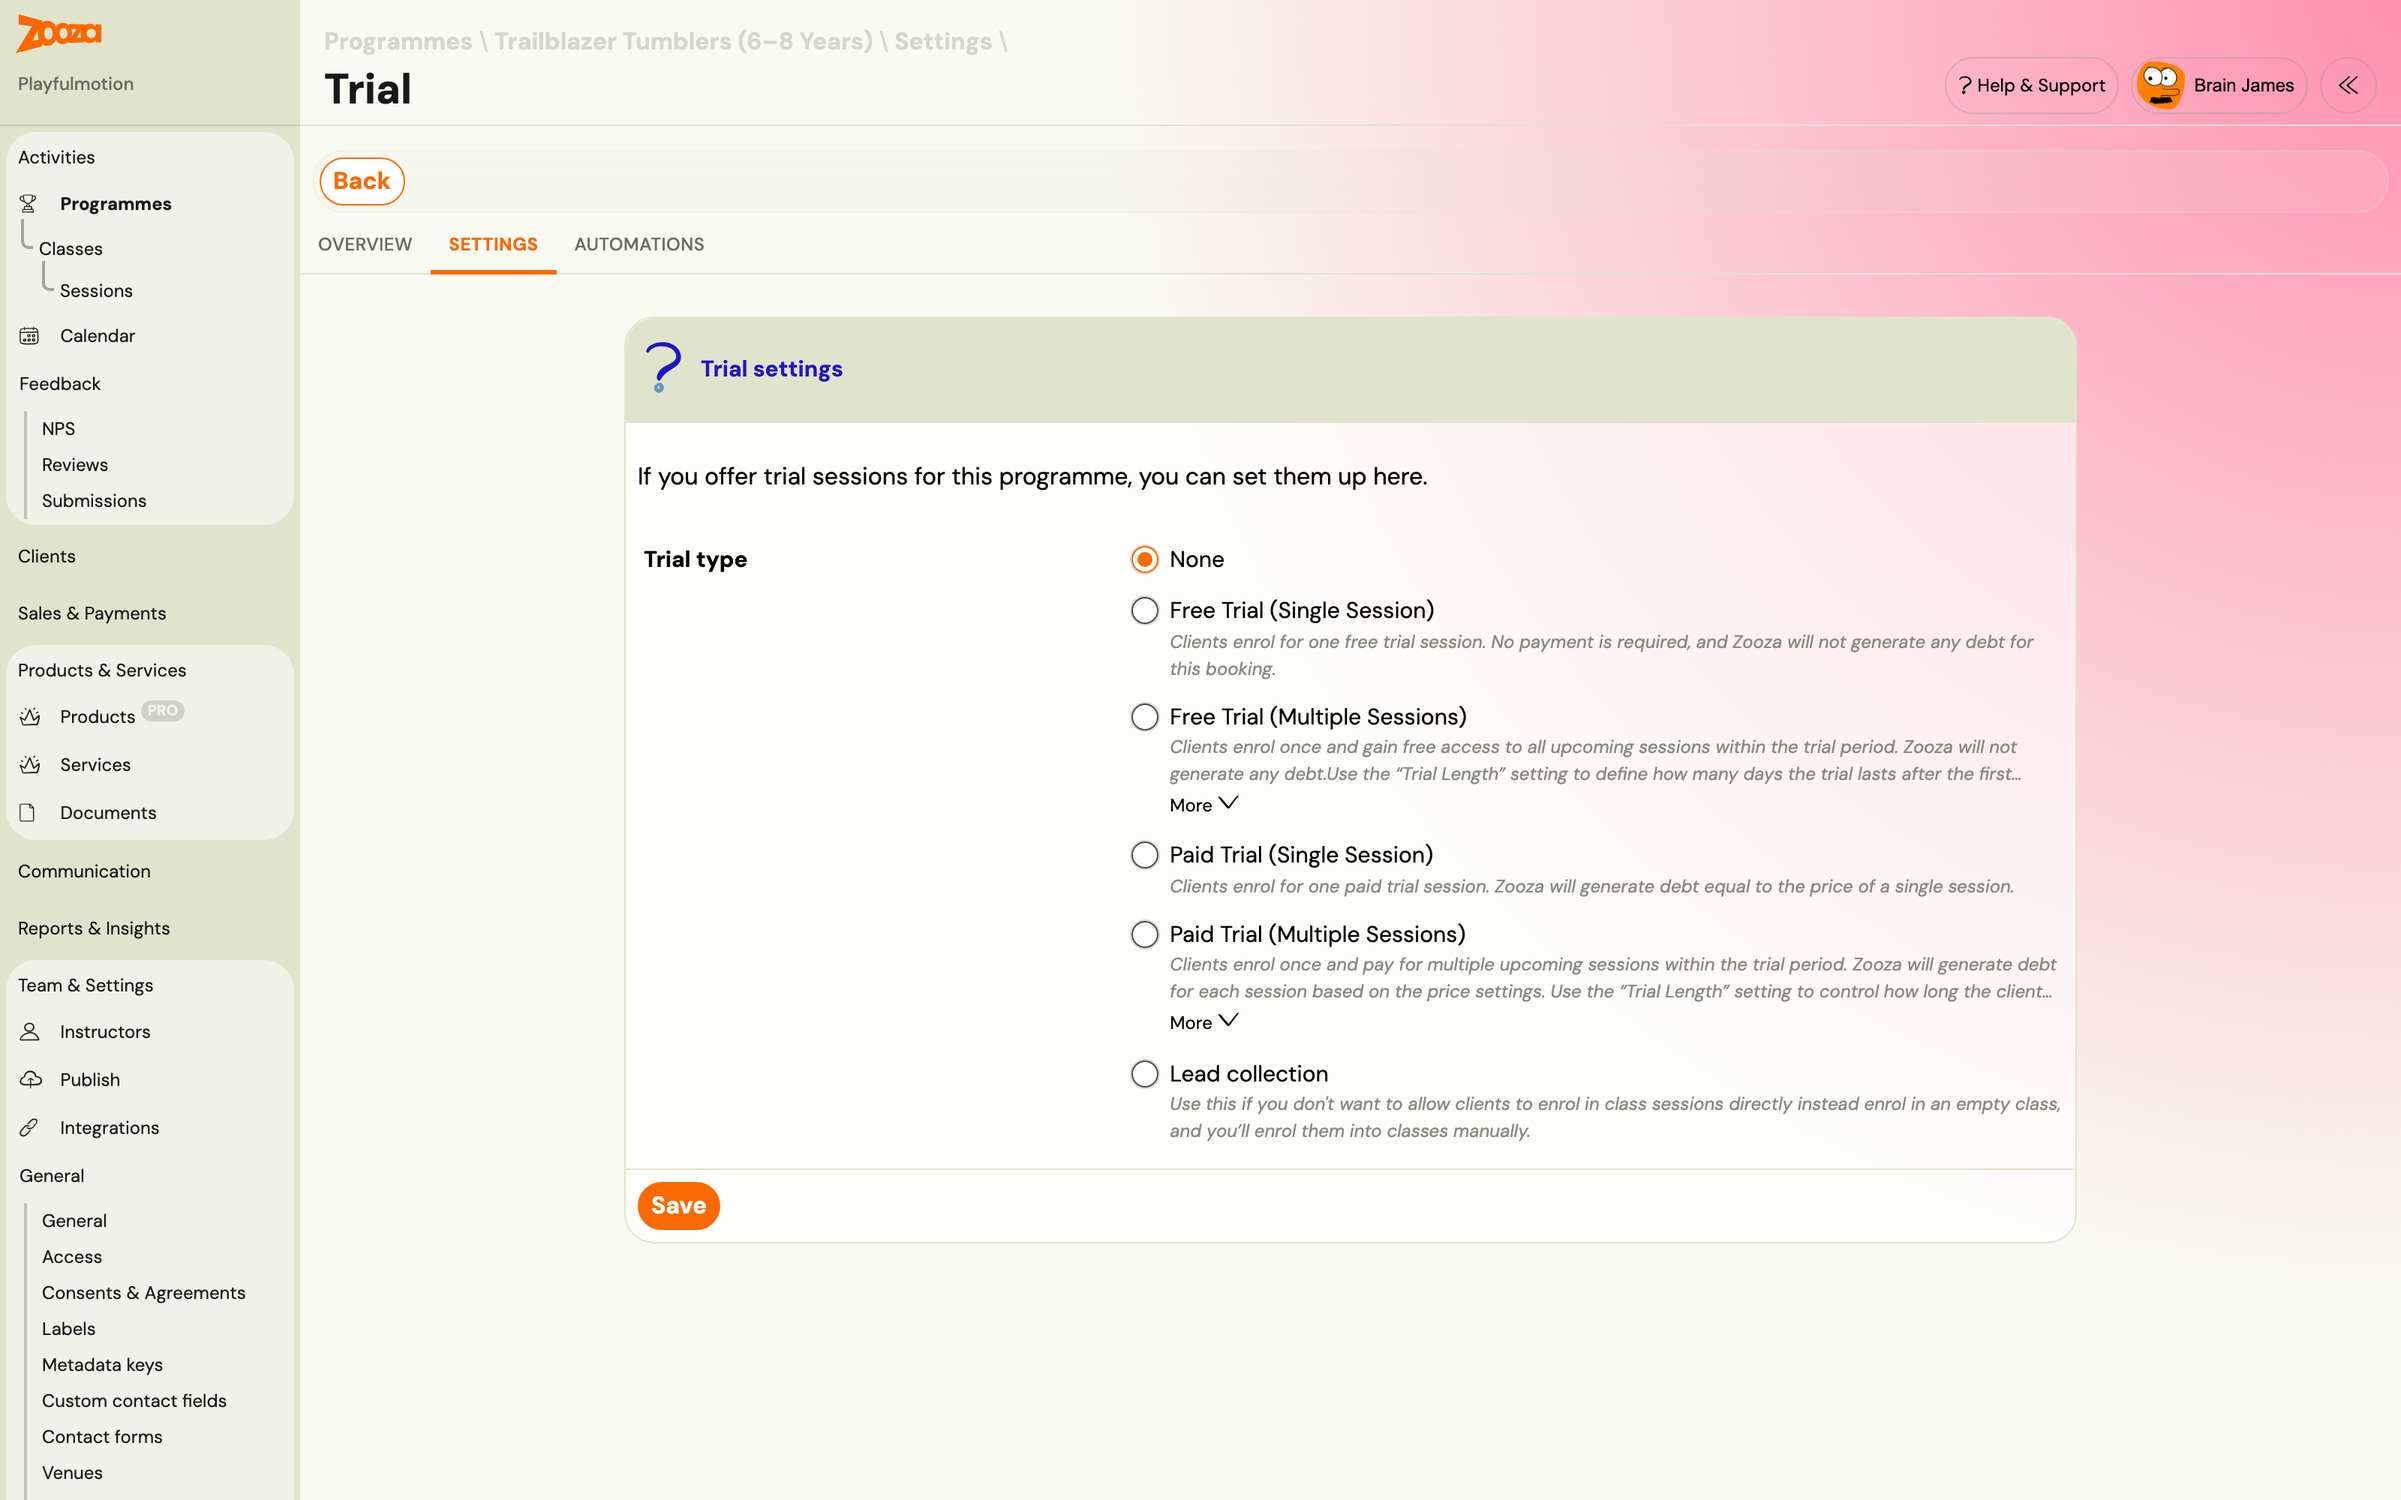
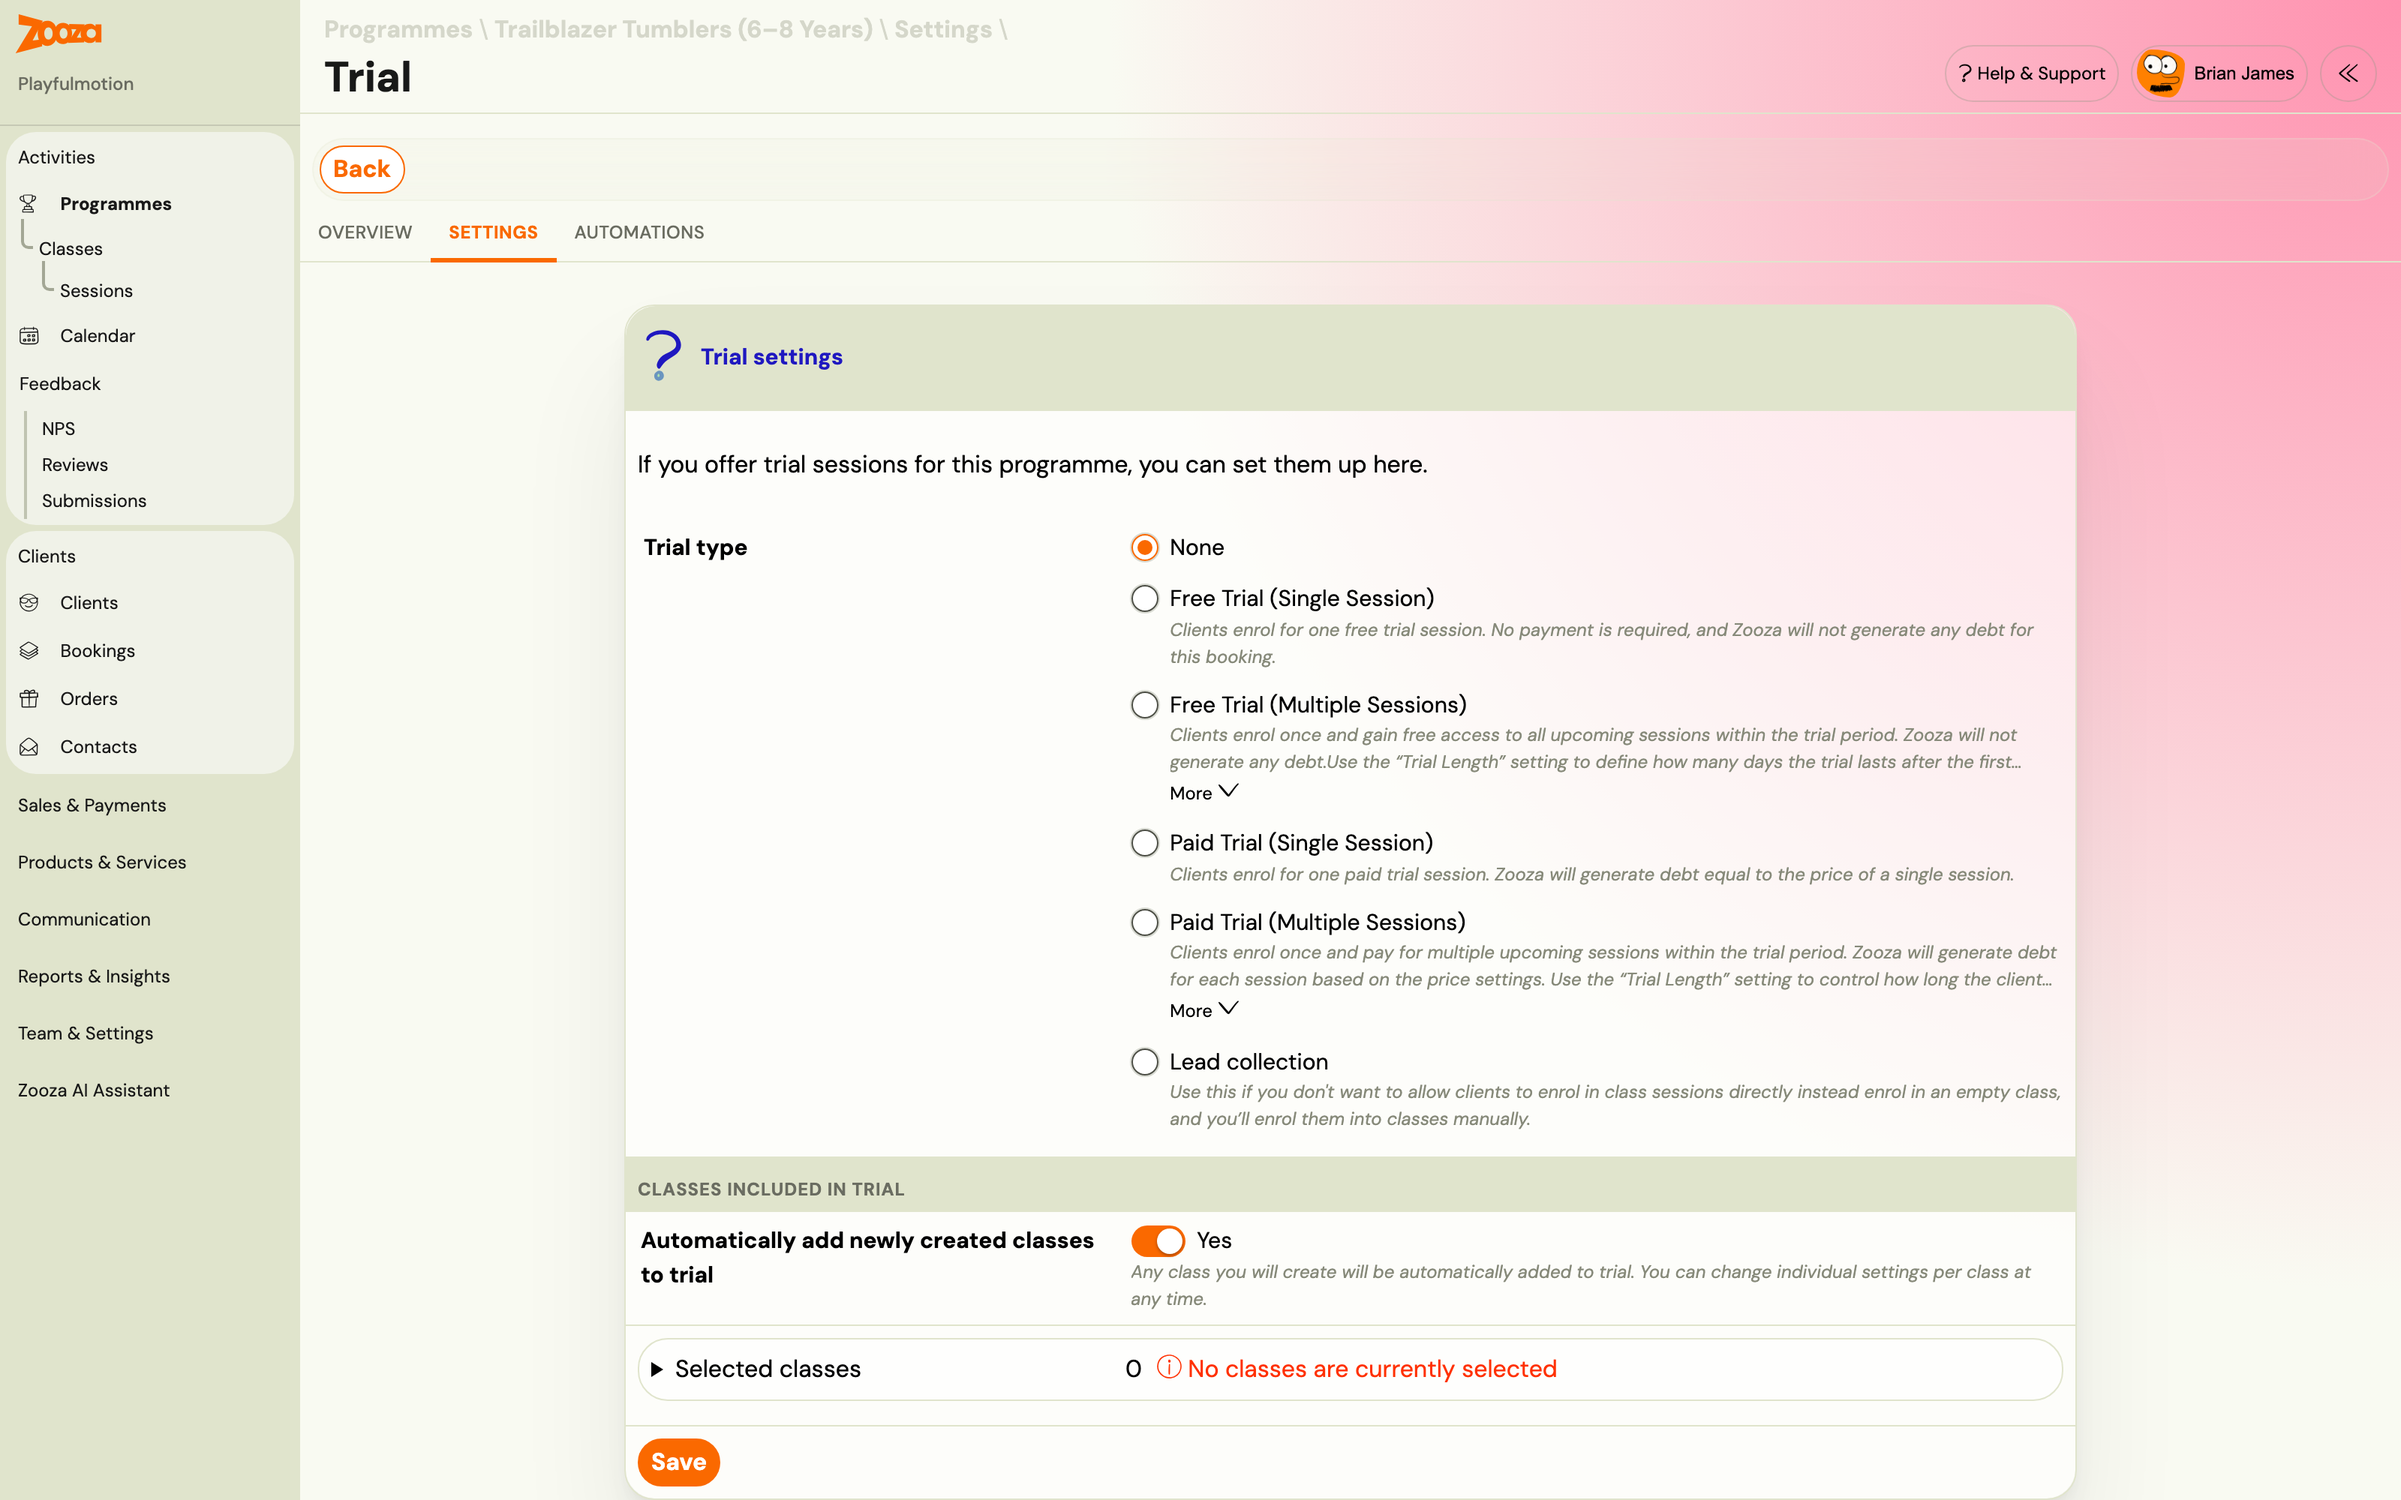
docs: round 1 - 12 screens reshot, and three things the pictures found that the text was missing
Ran the 42 approved shots outside Settings. 35 failed their assertion, which
first looked alarming and turned out to be the point: the session was fine,
the records exist and every route is valid, so the strings those screens were
asserted on have simply been renamed. Recaptured with a loose assertion and
compared each against the repo. Twelve were materially different; twenty-three
were not.

That is the mirror of the Settings result - there, 30 of 38 were unchanged.
Drift sits where the developers have been working, which is what the audit's
churn signal says and is now measured rather than assumed.

Three findings the comparison surfaced, each verified in the app source before
writing:

- Programme settings has a Product Code (SKU) field for networks, picked from
  codes the HQ maintains so the same kind of programme reports together across
  units. Undocumented.
- Trial settings has a "Classes included in trial" section with an
  automatically-add switch. Worth having, because a programme can have a valid
  trial type and still offer nothing when no class is included - which reads
  as a broken trial to the admin and a full class to the parent.
- Integrations now lists GP webpay alongside Global Payments, with the same
  per-invoice-profile routing.

Ledger now covers 80 images, so next week's audit ranks what nobody has
looked at rather than what is merely old.

diff --git a/content/guides/trials-daily-business.md b/content/guides/trials-daily-business.md
@@ -12,7 +12,7 @@ status: published
 source_legacy_path: legacy/0034_Welcome to Zooza.html
 source_language: en
 needs_screenshot_replacement: true
-last_converted: "2026-09-20"
+last_converted: "2026-11-06"
 ---
 
 # Manage trial bookings — reschedule, convert, and close
@@ -196,7 +196,23 @@ Go to **Programme → Settings → Trial** to configure:
 - **Unit price per session** (for paid trials)
 - **Reserve seat:** whether a trial booking holds a capacity spot until the trial is resolved
 
-![Trial type setting — free or paid](../../assets/images/trials-daily-business-06.png)
+![Trial settings: the trial type options, and the Classes included in trial section with the automatic-add switch](../../assets/images/trials-daily-business-06.png)
+
+### Which classes the trial covers
+
+Underneath the trial type is **Classes included in trial**, and it decides where a
+prospective client can actually be placed.
+
+- **Automatically add newly created classes to trial** — on, every class you create in
+  this programme is open to trials from the moment it exists. The setting's own note adds
+  the important half: *"you can change individual settings per class at any time"*, so
+  this is a default, not a lock.
+- **Selected classes** lists the ones currently included, and says **"No classes are
+  currently selected"** when there are none.
+
+> **If trials are switched on but nobody can book one, look here first.** A programme can
+> have a perfectly good trial type set and still offer nothing, because no class is
+> included. That reads to the admin as a broken trial and to the parent as a full class.
 
 ![Trial duration and price settings](../../assets/images/trials-daily-business-07.png)
 

diff --git a/content/setup/integrations-hub.md b/content/setup/integrations-hub.md
@@ -11,7 +11,7 @@ status: "published"
 source_legacy_path: ""
 source_language: "en"
 needs_screenshot_replacement: false
-last_converted: "2026-09-27"
+last_converted: "2026-11-06"
 related_articles: ["claude-plugin", "slack-integration", "whatsapp-integration"]
 ---
 
@@ -31,6 +31,7 @@ Go to **Settings → Integrations** to see all available integrations and their 
 | **GoCardless** | Collect Direct Debit mandates from clients. [Set up GoCardless →](../guides/gocardless-direct-debit-mandates.md) |
 | **GoCardless Bank Data** | Automatic bank payment matching via GoCardless open banking. Configured per profile. |
 | **Global Payments** *(EU/EEA)* | Accept online card payments, with one or more merchant accounts routed per billing profile — so each legal entity settles into its own account. [Set up Global Payments →](../guides/global-payments.md) |
+| **GP webpay** *(region-limited)* | Connect your GP webpay merchant accounts and choose which invoice profile bills through each one — the same per-entity routing as Global Payments. The tile reads **Not available in your region** where it is not offered. |
 | **FastPay** *(UK)* | Collect UK BACS Direct Debit payments — push monthly collections and reconcile outcomes automatically. Region-restricted to the UK. [Set up FastPay →](../guides/fastpay-direct-debit.md) |
 
 ---

diff --git a/content/reference/programme-settings.md b/content/reference/programme-settings.md
@@ -11,7 +11,7 @@ status: "published"
 source_legacy_path: ""
 source_language: "en"
 needs_screenshot_replacement: true
-last_converted: "2026-09-20"
+last_converted: "2026-11-06"
 ---
 
 # Programme Settings
@@ -153,6 +153,7 @@ Core programme identity and type.
 | Field | Description |
 |---|---|
 | `Programme name` | Public name shown on booking forms and your website. |
+| `Product Code (SKU)` | Networks only. Picked from the codes the HQ maintains, so the same kind of programme reports together across every unit. The field's own note says it: *"used by Master Franchisor to properly report performance of your programme"*. A standalone company can leave it alone. |
 | `URL address` | Custom URL slug for the programme page. |
 | `Programme description` | Rich text description shown during online booking. |
 | `Archive` | Archive the programme (hides it from active lists). |

diff --git a/content/reference/bookings-list.md b/content/reference/bookings-list.md
@@ -11,7 +11,7 @@ status: "published"
 source_legacy_path: ""
 source_language: "en"
 needs_screenshot_replacement: false
-last_converted: "2026-10-10"
+last_converted: "2026-11-06"
 related_articles: ["registration-and-booking-faq","transfer-and-copy-bookings","sending-email-sms","email-delivery-troubleshooting","async-exports"]
 ---
 

diff --git a/content/guides/fastpay-direct-debit.md b/content/guides/fastpay-direct-debit.md
@@ -12,7 +12,7 @@ related_articles: ["gocardless-direct-debit-mandates", "integrations-hub", "pric
 source_legacy_path: ""
 source_language: "en"
 needs_screenshot_replacement: true
-last_converted: "2026-09-21"
+last_converted: "2026-11-06"
 ---
 
 # Collect Direct Debit payments with FastPay (UK BACS)

diff --git a/content/reference/reports-dashboard.md b/content/reference/reports-dashboard.md
@@ -11,7 +11,7 @@ status: "published"
 source_legacy_path: ""
 source_language: "en"
 needs_screenshot_replacement: true
-last_converted: "2026-10-10"
+last_converted: "2026-11-06"
 related_articles: ["sessions-list", "payments-dashboard", "recording-an-administrative-refund"]
 ---
 

diff --git a/content/guides/auto-cancel-unpaid-registrations.md b/content/guides/auto-cancel-unpaid-registrations.md
@@ -11,7 +11,7 @@ status: "published"
 source_legacy_path: ""
 source_language: "en"
 needs_screenshot_replacement: true
-last_converted: "2026-10-17"
+last_converted: "2026-11-06"
 related_articles: ["automatic-payment-reminders-detailed", "registration-status-faq"]
 ---
 

diff --git a/content/reference/sessions-list.md b/content/reference/sessions-list.md
@@ -11,7 +11,7 @@ status: "published"
 source_legacy_path: ""
 source_language: "en"
 needs_screenshot_replacement: true
-last_converted: "2026-09-20"
+last_converted: "2026-11-06"
 related_articles: ["calendar", "class-detail", "reports-dashboard"]
 ---
 

diff --git a/content/guides/blocks-creation.md b/content/guides/blocks-creation.md
@@ -11,7 +11,7 @@ status: published
 source_legacy_path: legacy/0039_Welcome to Zooza.html
 source_language: en
 needs_screenshot_replacement: true
-last_converted: "2026-09-21"
+last_converted: "2026-11-06"
 ---
 
 # Blocks creation
